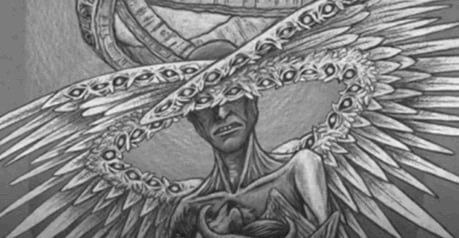
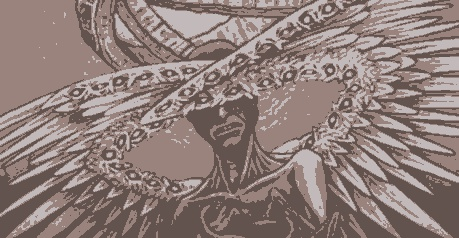
Color finding implemented
Dominant color finding has been implemented by using KMean clusters, runtime is pretty okay, outputs are still kinda crusty.

diff --git a/Code/main.py b/Code/main.py
@@ -13,8 +13,11 @@ import numpy as np
 import random
 from matplotlib import pyplot as plt
 from scipy import stats
+from sklearn.cluster import KMeans
 
-def colorFinder(input, numColors):
+# random color generator, used to test the color replacement function before color finder was implemented.
+# Might let users ask for it for "funky mode"
+def randomColors(numColors):
     colors = np.zeros((numColors, 3))
 
     for i in range(numColors):
@@ -24,6 +27,25 @@ def colorFinder(input, numColors):
 
     return colors
 
+
+# Find the most dominant colors in the image based on the number of colors requested by the user
+# Uses KMeans - https://scikit-learn.org/stable/modules/generated/sklearn.cluster.KMeans.html
+def colorFinder(input, numColors):
+    # reshape the image so that it is a 1-D list of pixels
+    reshapedInput = input.reshape((-1,3))
+
+    # set up our kmeans clusters
+    cluster = KMeans(n_clusters=numColors)
+
+    # fit our clusters to the pixels of the image
+    colorCluster = cluster.fit(reshapedInput)
+
+    # find the centroids of the color map
+    colors = colorCluster.cluster_centers_
+
+    return colors
+
+# given the array of all colors and the current pixel, finds the best color for the current pixel.
 def LeastDifference(colors, pixel):
 
     differences = np.subtract(colors, pixel)
@@ -32,10 +54,9 @@ def LeastDifference(colors, pixel):
 
     return colors[bestColor]
 
-
+# Traces the image with color
 def colorScale(input, numColors):
     imageSize = input.shape
-
     # find the best colors to choose for the current image, pretty hard
     colors = colorFinder(input, numColors)
 
@@ -51,7 +72,7 @@ def colorScale(input, numColors):
     # return the finished image
     return output
 
-
+# Traces the image with grayscale
 def greyScale(input, numColors):
     imageSize = input.shape
 
@@ -93,6 +114,7 @@ def monochrome(input):
 
     return input
 
+# find the mode color of the surrounding pixels
 def get_mode(img):
     unq,count = np.unique(img.reshape(-1,img.shape[-1]), axis=0, return_counts=True)
     return unq[count.argmax()]
@@ -132,14 +154,16 @@ if __name__ == '__main__':
     outDir = '../Results/'
 
     # Number of images in the input folder
-    N = 1
+    N = 5
 
     # user choices of number of colors and deciding whether to output with color or not.
     colors = int(input("How many colors would you like? : "))
     choice = input("Would you like a (c)olor image or a (g)reyscale image? (c/g)? : ")
 
+    '''
     if (choice == "c"):
         print("Color image processing has not been developed yet. ;;")
+    '''
 
     for index in range(1, N + 1):
         # read the current image
@@ -154,3 +178,4 @@ if __name__ == '__main__':
         # output = smooth(output)
 
         plt.imsave("{}/result_{}.jpg".format(outDir, str(index).zfill(2)), output)
+        print("Image", index, "complete!")
